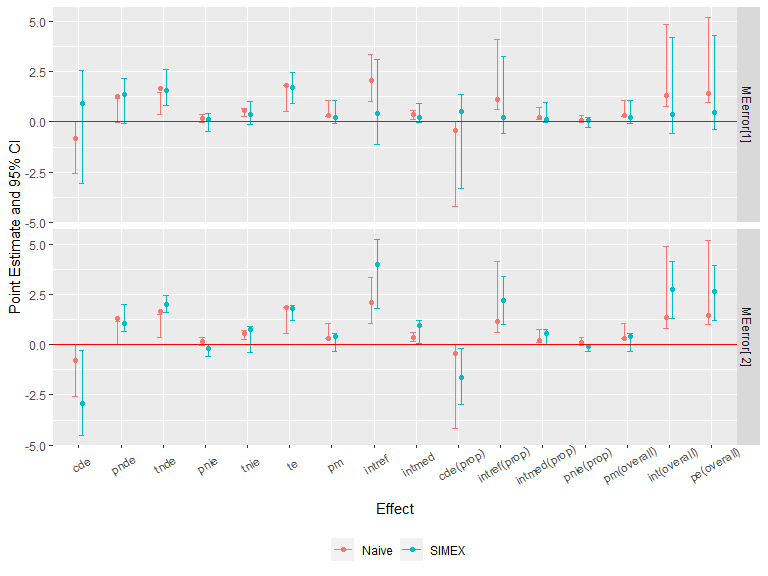
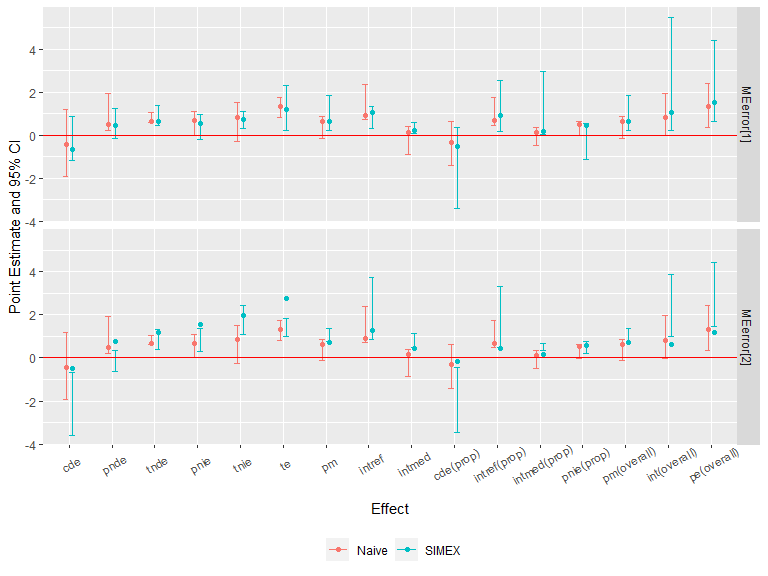
update readme

diff --git a/README.md b/README.md
@@ -1,6 +1,6 @@
 <!-- README.md is generated from README.Rmd. Please edit that file -->
 
-CMAverse <img src="man/figures/logo.png" align="right" width="120" />
+CMAverse <img src="man/figures/logo.png" align="right" width="200" />
 =====================================================================
 
 About the Package
@@ -392,23 +392,23 @@ Summarizing and plotting the results:
     #> Direct counterfactual imputation estimation with 
     #>  bootstrap standard errors, percentile confidence intervals and p-values 
     #>  
-    #>              Estimate Std.error  95% CIL 95% CIU  P.val    
-    #> cde          -0.79603   1.23001 -2.58259   0.026    0.4    
-    #> pnde          1.28025   0.48883 -0.01206   1.153    0.4    
-    #> tnde          1.65581   0.49865  0.36531   1.480 <2e-16 ***
-    #> pnie          0.17425   0.17082 -0.03401   0.376    0.4    
-    #> tnie          0.54981   0.18089  0.25787   0.689 <2e-16 ***
-    #> te            1.83006   0.54988  0.53216   1.827 <2e-16 ***
-    #> pm            0.30044   0.35679  0.28307   1.063 <2e-16 ***
-    #> intref        2.07627   1.00779  1.02890   3.341 <2e-16 ***
-    #> intmed        0.37556   0.18627  0.13857   0.589 <2e-16 ***
-    #> cde(prop)    -0.43497   1.82064 -4.17835   0.013    0.4    
-    #> intref(prop)  1.13454   1.50025  0.62200   4.116 <2e-16 ***
-    #> intmed(prop)  0.20522   0.27173  0.10317   0.745 <2e-16 ***
-    #> pnie(prop)    0.09522   0.14888 -0.02149   0.341    0.4    
-    #> pm(overall)   0.30044   0.35679  0.28307   1.063 <2e-16 ***
-    #> int(overall)  1.33976   1.76771  0.78085   4.861 <2e-16 ***
-    #> pe(overall)   1.43497   1.82064  0.98670   5.178 <2e-16 ***
+    #>               Estimate Std.error   95% CIL 95% CIU  P.val    
+    #> cde          -0.422462  1.391651 -1.916640   1.197    0.4    
+    #> pnde          0.497881  0.766442  0.208589   1.933 <2e-16 ***
+    #> tnde          0.650642  0.197800  0.606790   1.064 <2e-16 ***
+    #> pnie          0.683343  0.435277  0.009697   1.102    0.4    
+    #> tnie          0.836104  0.741239 -0.274757   1.509    0.4    
+    #> te            1.333985  0.424994  0.828100   1.753 <2e-16 ***
+    #> pm            0.626771  0.429307 -0.140242   0.872    0.4    
+    #> intref        0.920343  0.713249  0.736137   2.378 <2e-16 ***
+    #> intmed        0.152761  0.591729 -0.873172   0.407    0.4    
+    #> cde(prop)    -0.316692  0.882464 -1.417483   0.645    0.4    
+    #> intref(prop)  0.689920  0.520817  0.468821   1.738 <2e-16 ***
+    #> intmed(prop)  0.114515  0.372755 -0.491325   0.347    0.4    
+    #> pnie(prop)    0.512257  0.269173 -0.017086   0.637    0.4    
+    #> pm(overall)   0.626771  0.429307 -0.140242   0.872    0.4    
+    #> int(overall)  0.804435  0.862602 -0.018877   1.955    0.4    
+    #> pe(overall)   1.316692  0.882464  0.355133   2.417 <2e-16 ***
     #> ---
     #> Signif. codes:  0 '***' 0.001 '**' 0.01 '*' 0.05 '.' 0.1 ' ' 1
 
@@ -425,12 +425,12 @@ analysis for unmeasured confounding:
     #> 
     #> Evalues on the ratio scale: 
     #>          estRR   lowerRR  upperRR Evalue.estRR Evalue.lowerRR Evalue.upperRR
-    #> cde  0.7363063 0.2919112 1.857233     2.055545             NA              1
-    #> pnde 1.6360966 1.1327186 2.363175     2.656251       1.520446             NA
-    #> tnde 1.8902995 1.2990795 2.750588     3.187578       1.922400             NA
-    #> pnie 1.0693029 0.9403700 1.215914     1.341527       1.000000             NA
-    #> tnie 1.2354421 1.0782746 1.415518     1.774771       1.368794             NA
-    #> te   2.0213027 1.3365947 3.056772     3.458091       2.007334             NA
+    #> cde  0.8567984 0.3165065 2.319395     1.608803             NA              1
+    #> pnde 1.1997869 0.6932823 2.076338     1.689380       1.000000             NA
+    #> tnde 1.2687469 1.1012933 1.461662     1.852675       1.435290             NA
+    #> pnie 1.2840160 0.9403629 1.753256     1.887904       1.000000             NA
+    #> tnie 1.3578172 0.7988769 2.307824     2.054847       1.000000             NA
+    #> te   1.6290912 1.2018938 2.208130     2.641439       1.694494             NA
 
 Assume that the continuous pre-exposure confounder was measured with
 error. Sensitivity analysis using regression calibration with a set of
@@ -451,22 +451,22 @@ Summarizing and plotting the results:
     #> 0.1
     #> Measurement error correction for measurement error 1: 
     #>              Estimate Std.error  95% CIL 95% CIU  P.val    
-    #> cde          -0.79820   2.05942 -4.75515  -0.273 <2e-16 ***
-    #> pnde          1.23070   0.97048 -0.37641   2.061    0.4    
-    #> tnde          1.59187   0.54750  1.13974   2.436 <2e-16 ***
-    #> pnie          0.11461   0.36516 -0.69258   0.204    0.8    
-    #> tnie          0.47578   0.45751 -0.03185   1.085    0.4    
-    #> te            1.70648   0.58479  0.70442   2.198 <2e-16 ***
-    #> pm            0.27881   0.75418 -0.02771   1.668    0.4    
-    #> intref        2.02890   1.25282  1.39297   4.406 <2e-16 ***
-    #> intmed        0.36117   0.72871  0.12311   1.747 <2e-16 ***
-    #> cde(prop)    -0.46775   3.45270 -7.38684  -0.133 <2e-16 ***
-    #> intref(prop)  1.18894   2.71558  1.00033   6.719 <2e-16 ***
-    #> intmed(prop)  0.21164   1.25728  0.09077   2.716 <2e-16 ***
-    #> pnie(prop)    0.06716   0.53134 -1.06312   0.153    0.8    
-    #> pm(overall)   0.27881   0.75418 -0.02771   1.668    0.4    
-    #> int(overall)  1.40058   3.96922  1.16239   9.435 <2e-16 ***
-    #> pe(overall)   1.46775   3.45270  1.13316   8.387 <2e-16 ***
+    #> cde          -0.42452   1.07011 -0.98809   1.566    0.4    
+    #> pnde          0.61305   0.44173  0.35418   1.381 <2e-16 ***
+    #> tnde          0.74492   0.31046  0.52294   1.210 <2e-16 ***
+    #> pnie          0.75554   0.47145  0.19665   1.315 <2e-16 ***
+    #> tnie          0.88741   0.57762  0.37075   1.725 <2e-16 ***
+    #> te            1.50046   0.59493  1.02560   2.365 <2e-16 ***
+    #> pm            0.59142   0.22880  0.27863   0.786 <2e-16 ***
+    #> intref        1.03757   0.85150 -0.23647   1.906    0.4    
+    #> intmed        0.13187   0.24581 -0.18320   0.414    0.4    
+    #> cde(prop)    -0.28292   0.56654 -0.73799   0.691    0.4    
+    #> intref(prop)  0.69150   0.60169 -0.08778   1.425    0.4    
+    #> intmed(prop)  0.08789   0.11743 -0.07786   0.190    0.4    
+    #> pnie(prop)    0.50354   0.18865  0.15938   0.596 <2e-16 ***
+    #> pm(overall)   0.59142   0.22880  0.27863   0.786 <2e-16 ***
+    #> int(overall)  0.77939   0.67530 -0.15300   1.568    0.4    
+    #> pe(overall)   1.28292   0.56654  0.30858   1.738 <2e-16 ***
     #> ---
     #> Signif. codes:  0 '***' 0.001 '**' 0.01 '*' 0.05 '.' 0.1 ' ' 1
     #> ----------------------------------------------------------------
@@ -474,23 +474,23 @@ Summarizing and plotting the results:
     #> Measurement error 2: 
     #> 0.2
     #> Measurement error correction for measurement error 2: 
-    #>              Estimate Std.error  95% CIL 95% CIU  P.val    
-    #> cde          -0.80530   0.37662 -1.02077  -0.165 <2e-16 ***
-    #> pnde          1.23266   0.27164  1.13750   1.805 <2e-16 ***
-    #> tnde          1.59550   0.33676  1.37133   2.094 <2e-16 ***
-    #> pnie          0.12076   0.29531 -0.12280   0.575    0.4    
-    #> tnie          0.48361   0.13086  0.34616   0.677 <2e-16 ***
-    #> te            1.71627   0.38668  1.49001   2.475 <2e-16 ***
-    #> pm            0.28178   0.03110  0.22808   0.305 <2e-16 ***
-    #> intref        2.03796   0.51477  1.33203   2.518 <2e-16 ***
-    #> intmed        0.36284   0.23032  0.10179   0.631 <2e-16 ***
-    #> cde(prop)    -0.46921   0.18842 -0.52098  -0.108 <2e-16 ***
-    #> intref(prop)  1.18744   0.16689  0.88014   1.252 <2e-16 ***
-    #> intmed(prop)  0.21141   0.11874  0.04194   0.322 <2e-16 ***
-    #> pnie(prop)    0.07036   0.13411 -0.06096   0.249    0.4    
-    #> pm(overall)   0.28178   0.03110  0.22808   0.305 <2e-16 ***
-    #> int(overall)  1.39885   0.24205  1.03935   1.562 <2e-16 ***
-    #> pe(overall)   1.46921   0.18842  1.10822   1.521 <2e-16 ***
+    #>               Estimate Std.error   95% CIL 95% CIU  P.val    
+    #> cde          -0.431083  0.623191 -1.056635   0.391    0.8    
+    #> pnde          0.488798  0.449650  0.281434   1.282 <2e-16 ***
+    #> tnde          0.659727  0.445833  0.321212   1.362 <2e-16 ***
+    #> pnie          0.637035  0.527422 -0.169599   1.013    0.4    
+    #> tnie          0.807964  0.561800  0.017178   1.247    0.4    
+    #> te            1.296762  0.704427  0.660914   2.313 <2e-16 ***
+    #> pm            0.623062  0.313882  0.005606   0.786    0.4    
+    #> intref        0.919882  0.574976  0.366004   1.742 <2e-16 ***
+    #> intmed        0.170929  0.131836 -0.056937   0.261    0.4    
+    #> cde(prop)    -0.332430  0.404078 -0.692423   0.172    0.8    
+    #> intref(prop)  0.709368  0.360804  0.380351   1.243 <2e-16 ***
+    #> intmed(prop)  0.131812  0.144164 -0.091954   0.260    0.4    
+    #> pnie(prop)    0.491251  0.373091 -0.240207   0.638    0.4    
+    #> pm(overall)   0.623062  0.313882  0.005606   0.786    0.4    
+    #> int(overall)  0.841180  0.436368  0.400675   1.303 <2e-16 ***
+    #> pe(overall)   1.332430  0.404078  0.828462   1.692 <2e-16 ***
     #> ---
     #> Signif. codes:  0 '***' 0.001 '**' 0.01 '*' 0.05 '.' 0.1 ' ' 1
     #> ----------------------------------------------------------------
@@ -499,22 +499,22 @@ Summarizing and plotting the results:
     #> 0.3
     #> Measurement error correction for measurement error 3: 
     #>              Estimate Std.error  95% CIL 95% CIU  P.val    
-    #> cde          -0.81947   2.13735 -2.01148   3.312    0.8    
-    #> pnde          1.31452   0.75082  0.19375   2.105 <2e-16 ***
-    #> tnde          1.68671   0.40920  0.92934   1.798 <2e-16 ***
-    #> pnie          0.16463   0.19096 -0.18778   0.242    0.8    
-    #> tnie          0.53682   0.50781 -0.15871   0.950    0.8    
-    #> te            1.85133   0.45301  0.96949   2.001 <2e-16 ***
-    #> pm            0.28996   0.40127 -0.07873   0.853    0.8    
-    #> intref        2.13399   1.82454 -1.31816   3.003    0.8    
-    #> intmed        0.37219   0.48587 -0.35246   0.789    0.4    
-    #> cde(prop)    -0.44264   1.48394 -2.07658   1.663    0.8    
-    #> intref(prop)  1.15267   1.59956 -0.67414   3.065    0.8    
-    #> intmed(prop)  0.20104   0.35827 -0.17234   0.712    0.4    
-    #> pnie(prop)    0.08892   0.12400 -0.12629   0.141    0.8    
-    #> pm(overall)   0.28996   0.40127 -0.07873   0.853    0.8    
-    #> int(overall)  1.35371   1.55774 -0.77412   3.124    0.4    
-    #> pe(overall)   1.44264   1.48394 -0.66263   3.077    0.4    
+    #> cde          -0.44357   0.96294 -1.23707   0.872    0.4    
+    #> pnde          0.47112   0.58004 -0.34512   1.124    0.4    
+    #> tnde          0.61979   0.40127 -0.18595   0.731    0.4    
+    #> pnie          0.73597   0.49075  0.14903   1.361 <2e-16 ***
+    #> tnie          0.88463   0.39428  0.29618   1.259 <2e-16 ***
+    #> te            1.35576   0.88017 -0.03077   2.092    0.4    
+    #> pm            0.65250   0.93417 -1.18949   0.873    0.4    
+    #> intref        0.91470   0.62501  0.23363   1.719 <2e-16 ***
+    #> intmed        0.14866   0.29608 -0.39491   0.283    0.4    
+    #> cde(prop)    -0.32718   3.38938 -0.84133   6.532    0.8    
+    #> intref(prop)  0.67468   2.45917 -4.34217   0.977    0.4    
+    #> intmed(prop)  0.10965   0.44667 -0.79361   0.234    0.8    
+    #> pnie(prop)    0.54285   0.50843 -0.40379   0.653    0.4    
+    #> pm(overall)   0.65250   0.93417 -1.18949   0.873    0.4    
+    #> int(overall)  0.78433   2.88944 -5.13578   1.199    0.8    
+    #> pe(overall)   1.32718   3.38938 -5.53166   1.841    0.4    
     #> ---
     #> Signif. codes:  0 '***' 0.001 '**' 0.01 '*' 0.05 '.' 0.1 ' ' 1
     #> ----------------------------------------------------------------
@@ -547,22 +547,22 @@ Summarizing and plotting the results:
     #> 
     #> Measurement error correction for measurement error 1: 
     #>              Estimate Std.error  95% CIL 95% CIU  P.val    
-    #> cde           0.93447   2.26096 -3.06639   2.565    0.8    
-    #> pnde          1.35819   0.93235 -0.05559   2.160    0.4    
-    #> tnde          1.57364   0.78995  0.82240   2.604 <2e-16 ***
-    #> pnie          0.14561   0.34534 -0.45514   0.418    0.8    
-    #> tnie          0.36106   0.46025 -0.14848   1.012    0.4    
-    #> te            1.71925   0.65997  0.93636   2.480 <2e-16 ***
-    #> pm            0.21001   0.49298 -0.08477   1.074    0.4    
-    #> intref        0.42372   1.78265 -1.09703   3.113    0.4    
-    #> intmed        0.21545   0.39077 -0.04326   0.912    0.4    
-    #> cde(prop)     0.54353   1.95489 -3.28545   1.368    0.8    
-    #> intref(prop)  0.24646   1.56863 -0.57259   3.243    0.4    
-    #> intmed(prop)  0.12532   0.42551 -0.01797   0.956    0.4    
-    #> pnie(prop)    0.08469   0.20174 -0.26618   0.228    0.8    
-    #> pm(overall)   0.21001   0.49298 -0.08477   1.074    0.4    
-    #> int(overall)  0.37177   1.97333 -0.59056   4.199    0.4    
-    #> pe(overall)   0.45647   1.95489 -0.36822   4.285    0.4    
+    #> cde          -0.63979   0.82340 -1.15969   0.862    0.8    
+    #> pnde          0.43371   0.65534 -0.16001   1.253    0.4    
+    #> tnde          0.63960   0.49237  0.44614   1.370 <2e-16 ***
+    #> pnie          0.54310   0.48613 -0.20714   0.990    0.4    
+    #> tnie          0.74899   0.34027  0.32378   1.108 <2e-16 ***
+    #> te            1.18270   0.85789  0.23900   2.320 <2e-16 ***
+    #> pm            0.63329   0.68335  0.23164   1.858 <2e-16 ***
+    #> intref        1.07350   0.43384  0.32890   1.338 <2e-16 ***
+    #> intmed        0.20589   0.23076  0.09967   0.606 <2e-16 ***
+    #> cde(prop)    -0.54096   1.64955 -3.39675   0.360    0.8    
+    #> intref(prop)  0.90767   1.06496  0.18820   2.539 <2e-16 ***
+    #> intmed(prop)  0.17409   1.37466  0.05066   2.953 <2e-16 ***
+    #> pnie(prop)    0.45920   0.73095 -1.10669   0.555    0.4    
+    #> pm(overall)   0.63329   0.68335  0.23164   1.858 <2e-16 ***
+    #> int(overall)  1.08176   2.29539  0.23971   5.492 <2e-16 ***
+    #> pe(overall)   1.54096   1.64955  0.63979   4.397 <2e-16 ***
     #> ---
     #> Signif. codes:  0 '***' 0.001 '**' 0.01 '*' 0.05 '.' 0.1 ' ' 1
     #> ----------------------------------------------------------------
@@ -573,23 +573,23 @@ Summarizing and plotting the results:
     #> [2,]  0.1  0.9
     #> 
     #> Measurement error correction for measurement error 2: 
-    #>              Estimate Std.error  95% CIL 95% CIU  P.val    
-    #> cde          -2.94931   1.76611 -4.51957  -0.287 <2e-16 ***
-    #> pnde          1.05633   0.53605  0.65996   1.973 <2e-16 ***
-    #> tnde          2.01633   0.33569  1.61175   2.456 <2e-16 ***
-    #> pnie         -0.20615   0.23444 -0.60042  -0.014    0.4    
-    #> tnie          0.75385   0.59776 -0.38049   0.919    0.8    
-    #> te            1.81018   0.32588  1.21715   1.961 <2e-16 ***
-    #> pm            0.41645   0.38401 -0.31700   0.579    0.8    
-    #> intref        4.00564   1.41588  1.78985   5.218 <2e-16 ***
-    #> intmed        0.95999   0.46489  0.04349   1.192    0.4    
-    #> cde(prop)    -1.62929   1.15128 -2.95347  -0.178 <2e-16 ***
-    #> intref(prop)  2.21284   0.94549  1.02183   3.403 <2e-16 ***
-    #> intmed(prop)  0.53033   0.30004  0.02150   0.775    0.4    
-    #> pnie(prop)   -0.11388   0.14756 -0.33850  -0.008    0.4    
-    #> pm(overall)   0.41645   0.38401 -0.31700   0.579    0.8    
-    #> int(overall)  2.74318   1.16479  1.30742   4.157 <2e-16 ***
-    #> pe(overall)   2.62929   1.15128  1.17806   3.953 <2e-16 ***
+    #>              Estimate Std.error 95% CIL 95% CIU  P.val    
+    #> cde           -0.4913    1.2935 -3.6031  -0.687 <2e-16 ***
+    #> pnde           0.7672    0.4312 -0.6431   0.367    0.8    
+    #> tnde           1.2053    0.4048  0.3892   1.323 <2e-16 ***
+    #> pnie           1.5440    0.4272  0.2996   1.349 <2e-16 ***
+    #> tnie           1.9821    0.6015  1.0764   2.450 <2e-16 ***
+    #> te             2.7493    0.3497  1.0073   1.840 <2e-16 ***
+    #> pm             0.7209    0.2583  0.7493   1.355 <2e-16 ***
+    #> intref         1.2585    1.3384  0.8385   3.753 <2e-16 ***
+    #> intmed         0.4380    0.3084  0.5027   1.135 <2e-16 ***
+    #> cde(prop)     -0.1787    1.2675 -3.4415  -0.450 <2e-16 ***
+    #> intref(prop)   0.4578    1.2261  0.4672   3.313 <2e-16 ***
+    #> intmed(prop)   0.1593    0.1362  0.3543   0.683 <2e-16 ***
+    #> pnie(prop)     0.5616    0.2250  0.1880   0.747 <2e-16 ***
+    #> pm(overall)    0.7209    0.2583  0.7493   1.355 <2e-16 ***
+    #> int(overall)   0.6171    1.2399  1.0188   3.858 <2e-16 ***
+    #> pe(overall)    1.1787    1.2675  1.4500   4.441 <2e-16 ***
     #> ---
     #> Signif. codes:  0 '***' 0.001 '**' 0.01 '*' 0.05 '.' 0.1 ' ' 1
     #> ----------------------------------------------------------------
